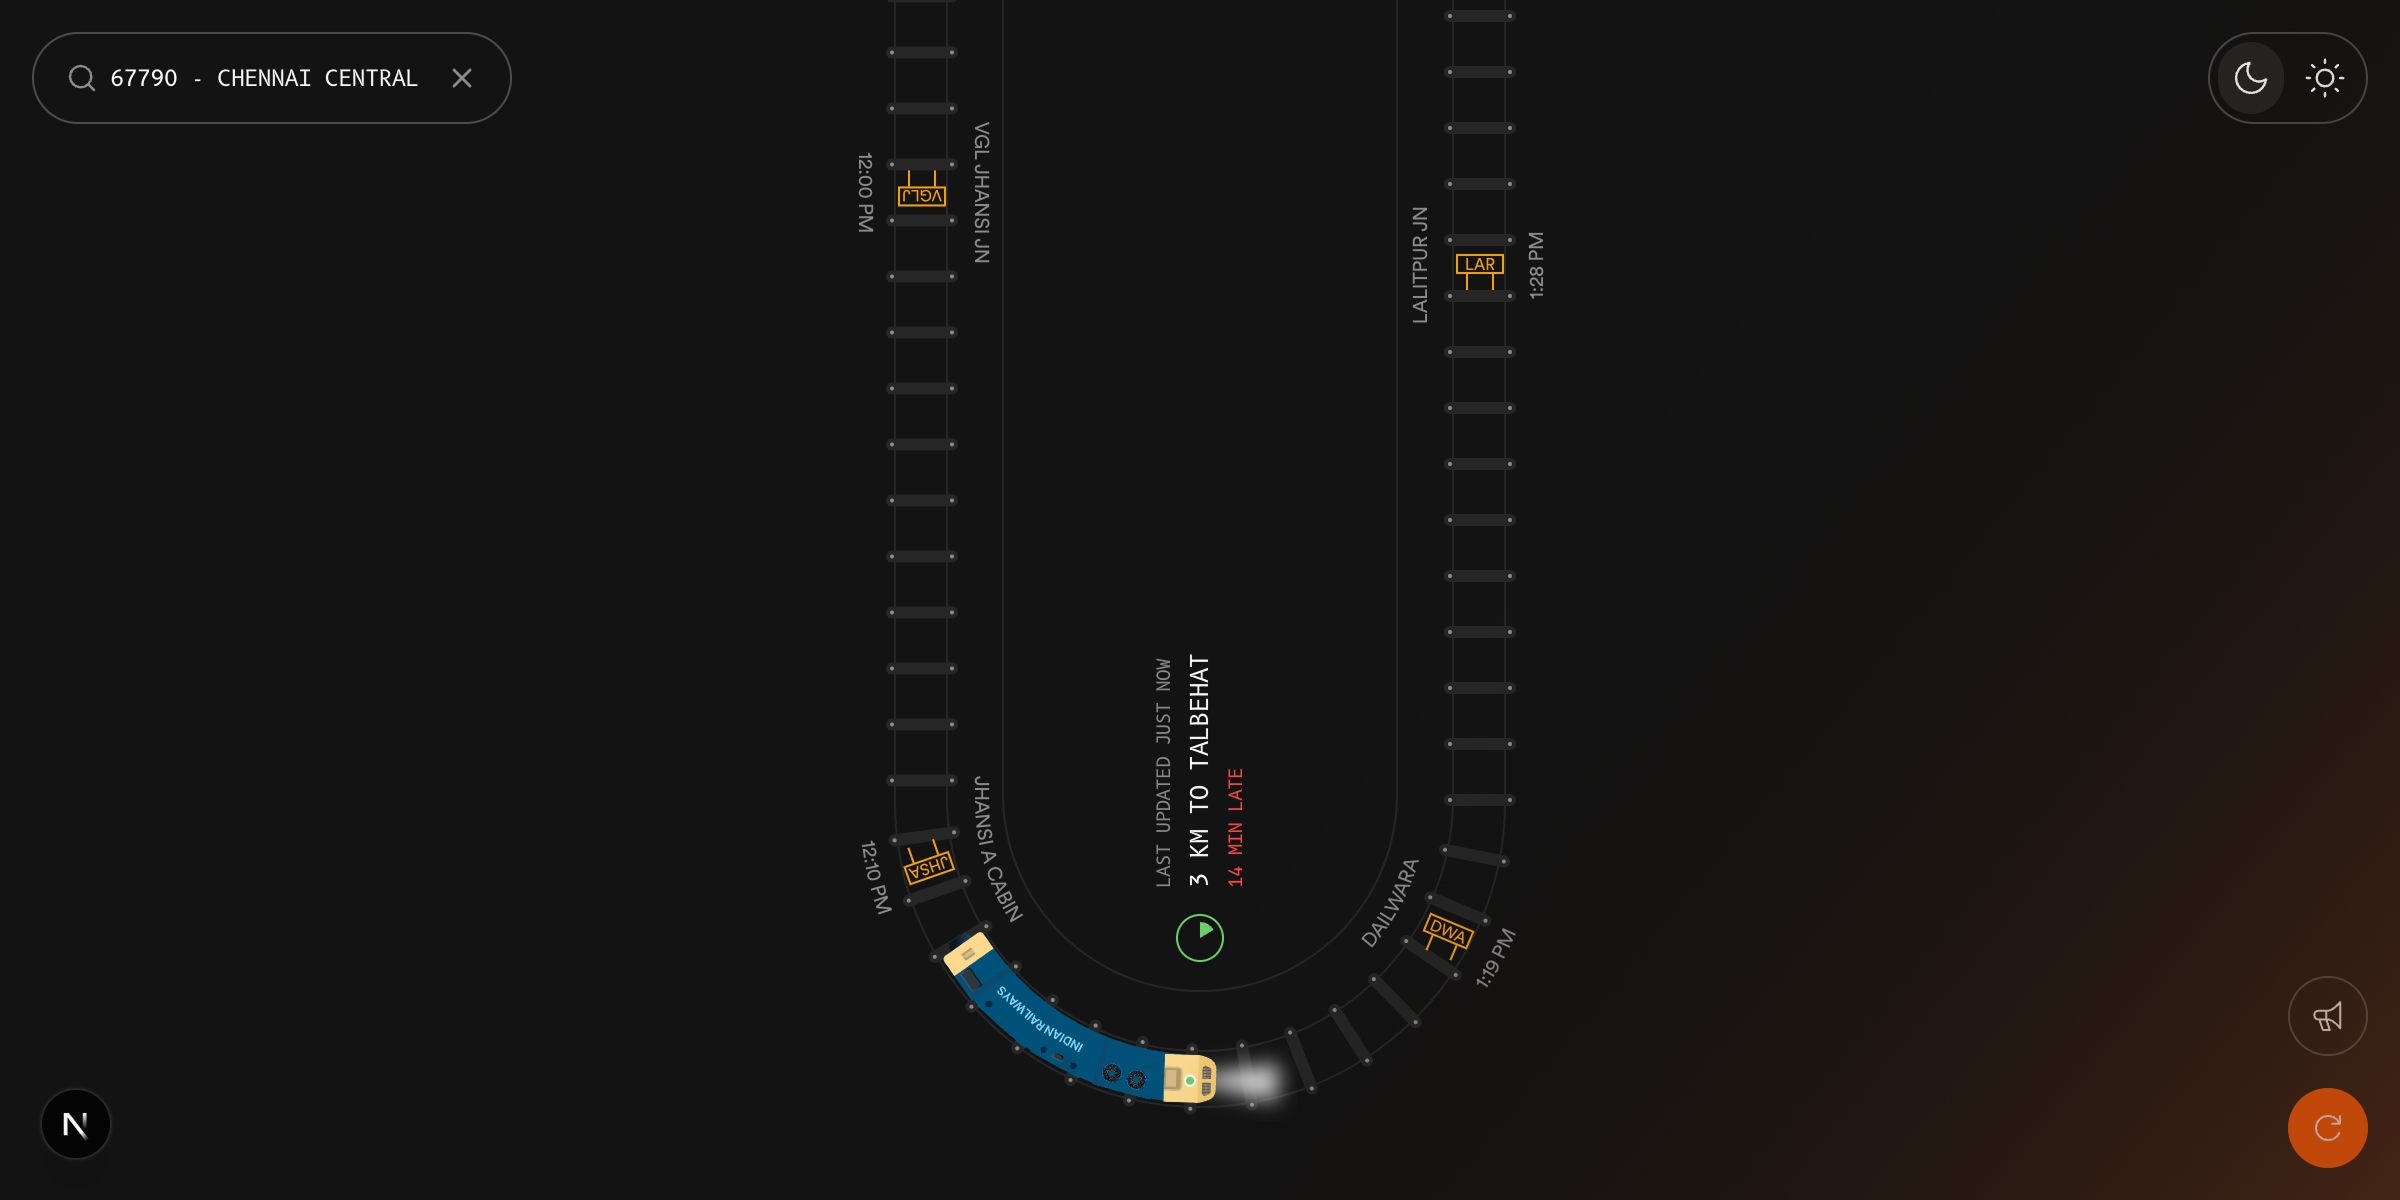
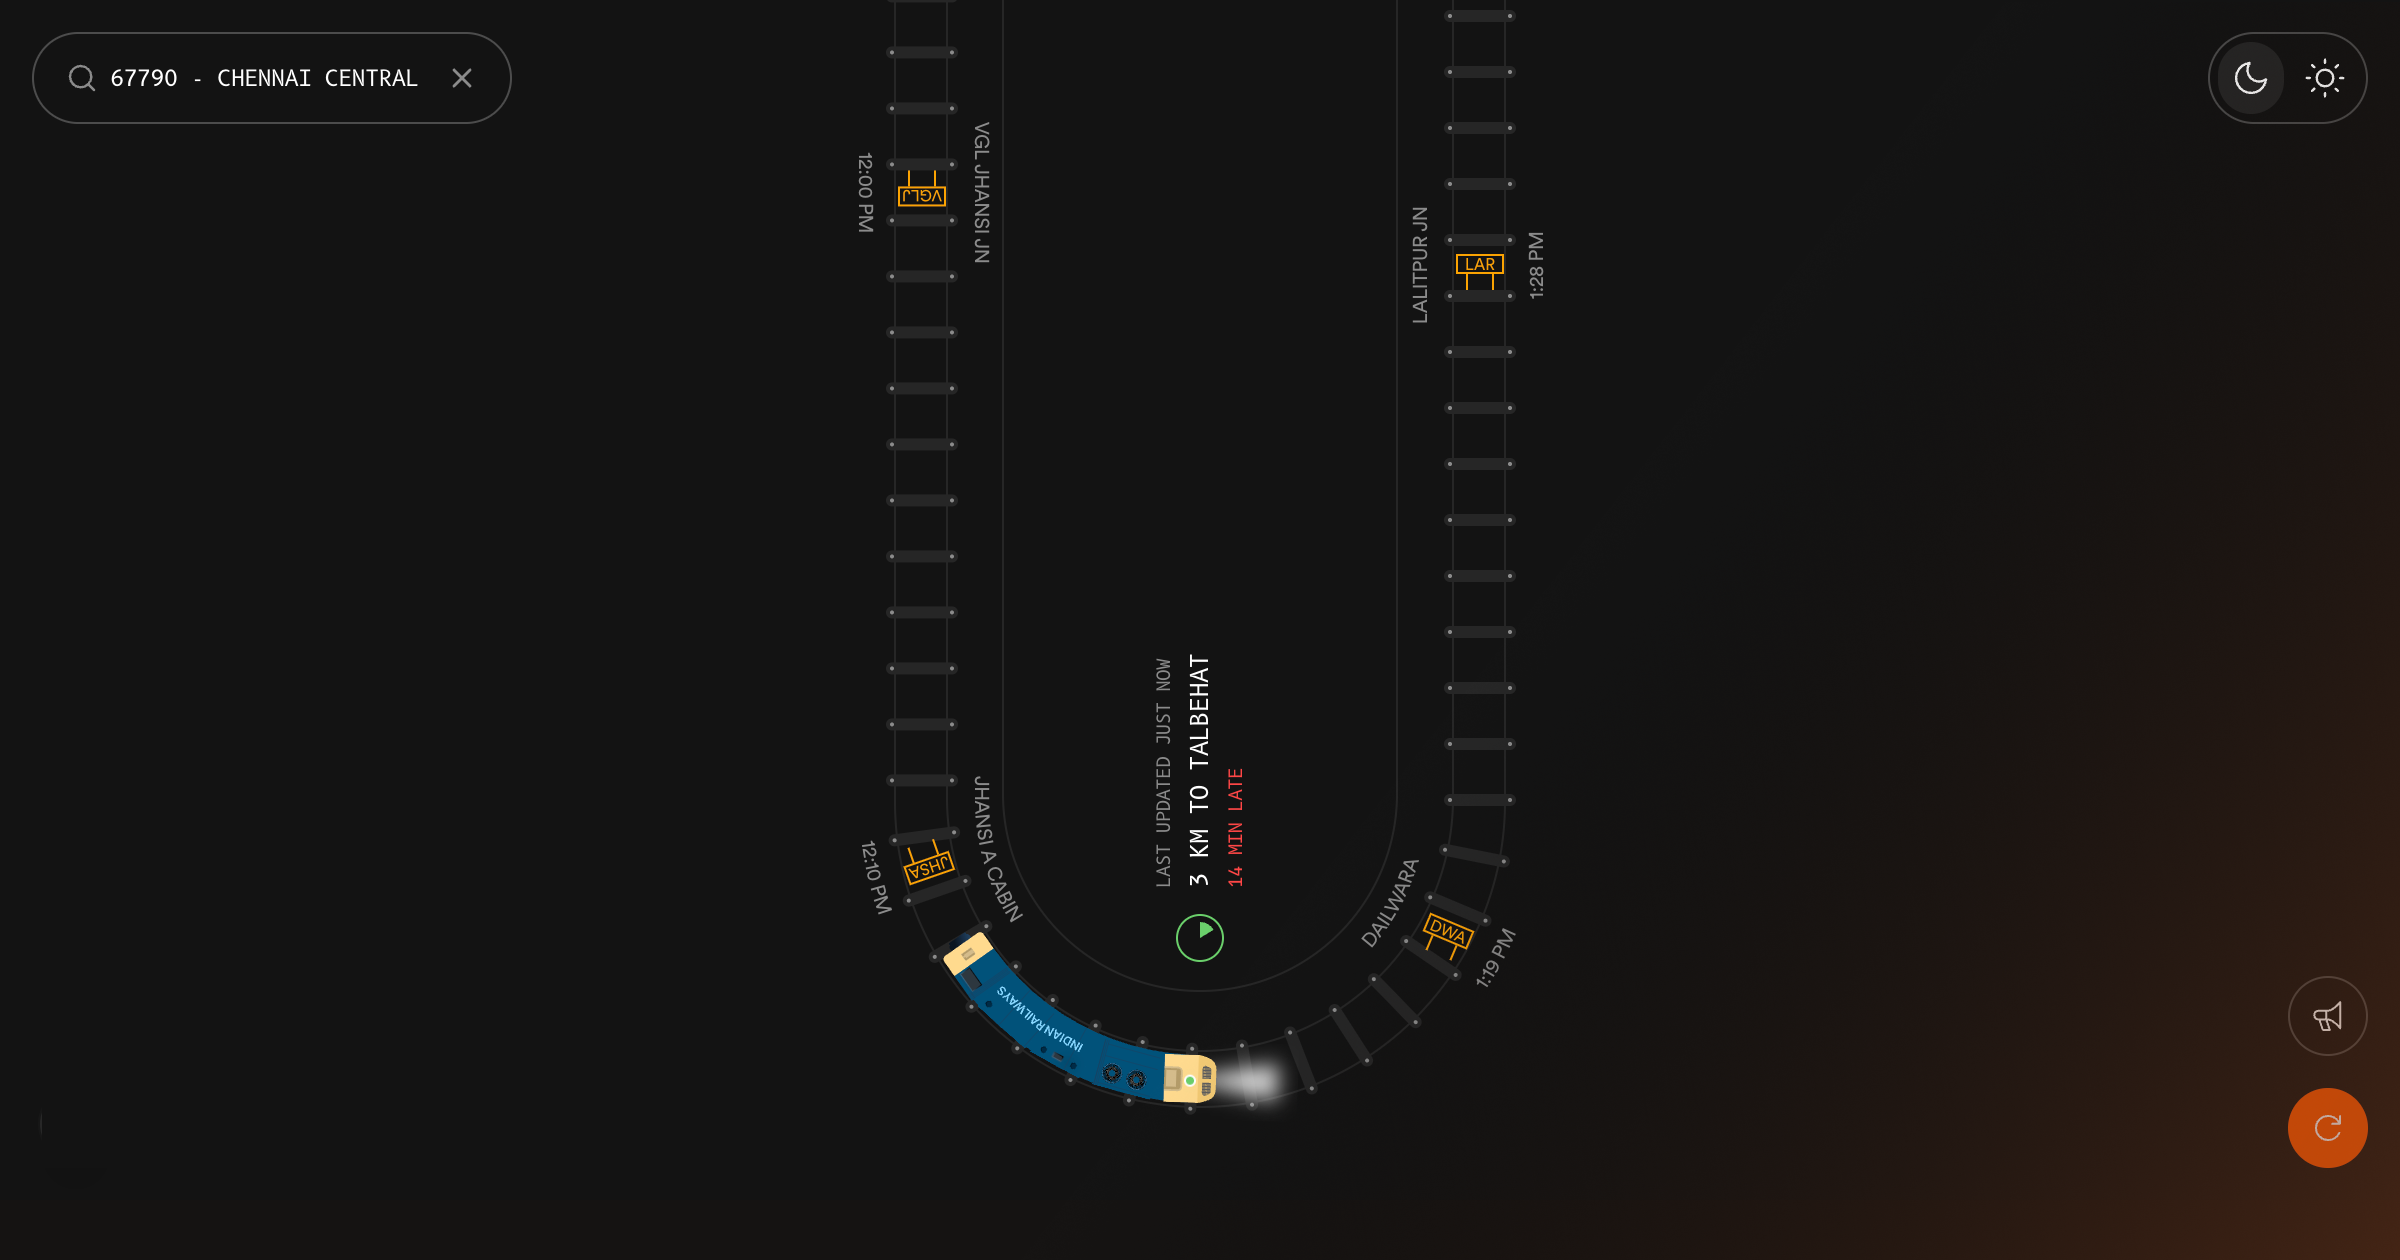
OG Image updated

diff --git a/app/layout.tsx b/app/layout.tsx
@@ -86,8 +86,8 @@ export const metadata: Metadata = {
     images: [
       {
         url: "/Cover.png",
-        width: 2400,
-        height: 1200,
+        width: 1200,
+        height: 630,
         alt: "Train Tracker - Live Indian Railway Train Tracking",
       },
     ],